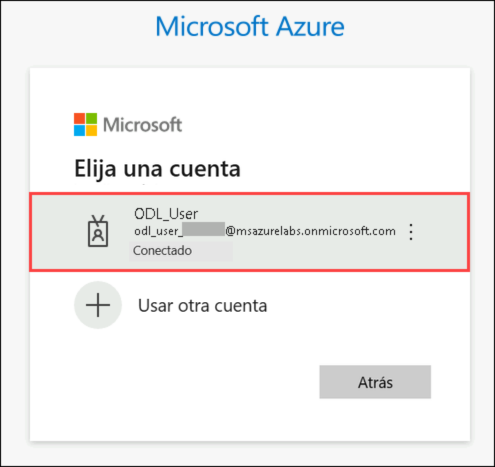
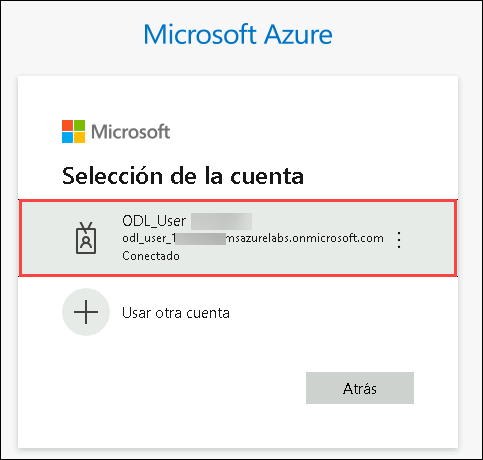
updated Lab2-A(AKS).md

Changed region(s): [[0.0, 0.0, 1.0, 1.0], [0.6211, 0.7609, 0.8696, 0.8826], [0.2484, 0.6391, 0.559, 0.7]]

diff --git a/docs/labs/02-build-your-own-copilot/Lab2-A(AKS).md b/docs/labs/02-build-your-own-copilot/Lab2-A(AKS).md
@@ -29,8 +29,12 @@ En esta tarea, implementará los servicios de recomendación y UI de Miyagi en u
 1. Ejecute el siguiente comando para iniciar sesión en el portal de Azure.
 
    ```
-   az login --user <inject key="AzureAdUserEmail"></inject> --password <inject key="AzureAdUserPassword"></inject>
+   az login
    ```
+
+1. Esto lo redirigirá a la **Página de Inicio de sesión de Microsoft Azure**, seleccione su cuenta de Azure **<inject key="AzureAdUserEmail"></inject>**, y regrese a **Visual Studio Code**.
+
+   ![](./Media/azure-account-select.png)
 
 1. Ejecute el siguiente comando para iniciar sesión en el portal de Azure.
 
@@ -234,7 +238,9 @@ En esta tarea, enviará la imagen de Docker del servicio de recomendaciones Miya
 
    > **Nota**: El comando **docker push <inject key="AcrLoginServer" enableCopy="false"/>/miyagi-recommendation:latest** carga la imagen de Docker especificada, etiquetada con el nombre de Azure Container Registry (ACR), en el ACR. Esto hace que la imagen esté disponible en el ACR para su implementación y uso en diversos servicios de Azure.
 
-1. Vuelva a la ventana **Visual Studio Code** y navegue a **miyagi/ui/typescript** haga clic derecho, en el menú contextual seleccione **Abrir en la Terminal Integrada**.
+1. Vuelva a la ventana **Visual Studio Code** y navegue a **miyagi(1)/ui/typescript (2)** haga clic derecho, en el menú contextual seleccione **Abrir en la Terminal Integrada (3)**.
+
+   ![](./Media/image-rg-25.png)
 
 1. Ejecute el siguiente comando para agregar la etiqueta.
 
